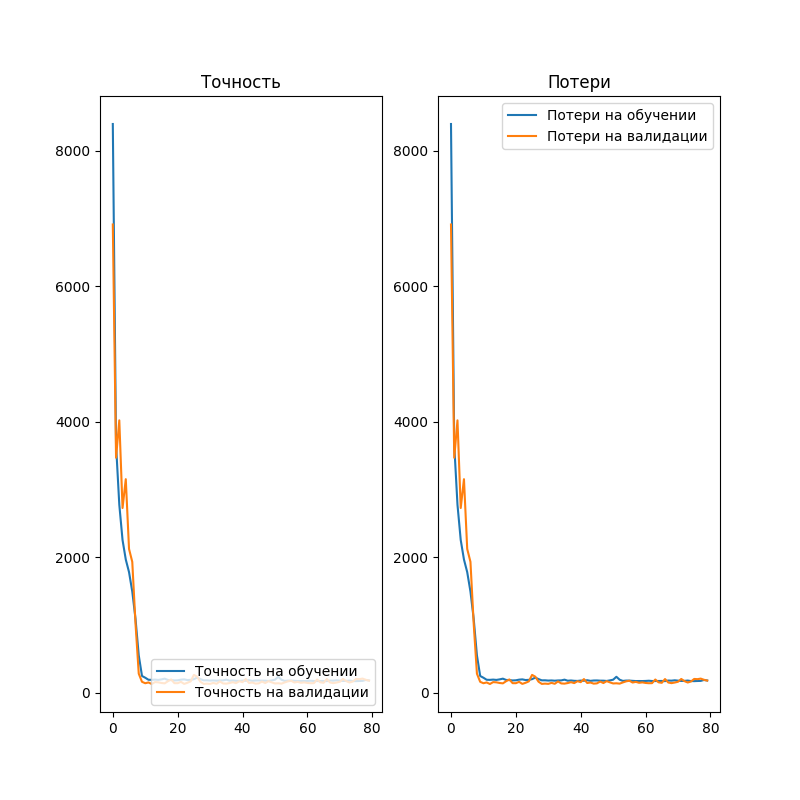
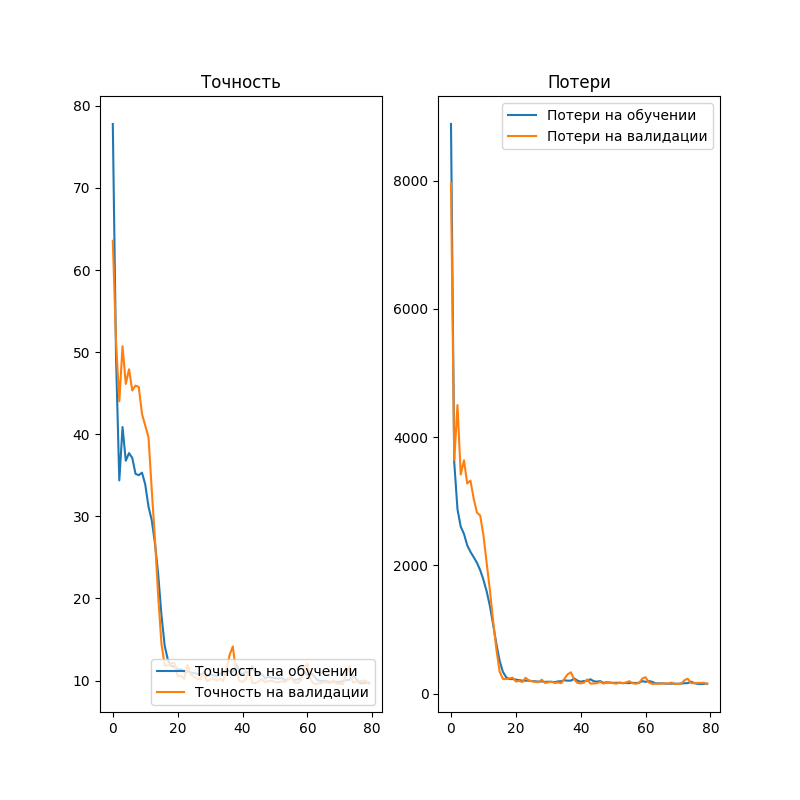
update_task_2_part_4

diff --git a/cnn.py b/cnn.py
@@ -126,11 +126,11 @@ def build_model():
     classification_model.add(Dense(128, activation='relu'))
     classification_model.add(Dense(64, activation='relu'))
 
-    classification_model.add(Dense(1, activation='relu'))
+    classification_model.add(Dense(1, activation='linear'))
 
     classification_model.compile(optimizer='adam',
                                  loss='mean_squared_error',
-                                 metrics=['mean_squared_error'])
+                                 metrics=['mae'])
     classification_model.summary()
 
     return classification_model
@@ -169,8 +169,8 @@ def plot_confusion(confusion_mat):
 
 
 def plot_accuracy(history, fold):
-    acc = history.history['mean_squared_error']
-    val_acc = history.history['val_mean_squared_error']
+    acc = history.history['mae']
+    val_acc = history.history['val_mae']
 
     loss = history.history['loss']
     val_loss = history.history['val_loss']
@@ -204,7 +204,7 @@ def train():
     # test_images, test_labels = data_images[1125:], data_labels[1125:]
 
     data_images, date_flowering_times = load_images_from_folder(
-        'C:/Users/anyac/PycharmProjects/AIO_vigna-master_updated/AIO_summer_square')
+        'C:/Users/1/Desktop/AIO_vigna-master_updated/AIO_summer_square')
     train_images, train_flowering_times = data_images[:750], date_flowering_times[:750]
     test_images, test_flowering_times = data_images[750:], date_flowering_times[750:]
 
@@ -236,7 +236,7 @@ def train():
                                  epochs=80,
                                  verbose=verbosity,
                                  validation_split=0.2)
-        # plot_accuracy(history, fold_no)
+        plot_accuracy(history, fold_no)
 
         # Generate generalization metrics
         scores = best_model.evaluate(data_images[valid], data_vector[valid], verbose=0)

diff --git a/vigna_parser.py b/vigna_parser.py
@@ -69,11 +69,14 @@ def get_vigna_information(filename):
         for vigna in vigna_info:
             summer_plants.append(vigna) if vigna[0] < 240 else winter_plants.append(vigna)
         return summer_plants, winter_plants
+
+
 '''
 функция считывания png через (numpy, opencv) того размера который есть
 брать массив фалйы и заполнять квадрат теми данные которыми она ссчитала ищ предыдщуего изображения и записывает в новое изображени
 создать новую сетку
 '''
+
 
 def aio_transform_to_square(folder):
     for filename in os.listdir(folder):
@@ -99,7 +102,8 @@ def aio_transform_to_square(folder):
 
                 pixels[j, i] = old_pixels[ni, nj]
                 ni += 1
-        img.save(os.path.join('C:/Users/ashab/PycharmProjects/AIO_vigna-master_updated/AIO_summer_square', filename))
+        img.save(os.path.join('C:/Users/1/Desktop/AIO_vigna-master_updated/AIO_summer_square', filename))
+
 
 def aio_transform(filename_vigna, filename_weather):
     weather = get_weather_information(filename_weather)
@@ -107,7 +111,7 @@ def aio_transform(filename_vigna, filename_weather):
 
     all_vigna = summer_planted_vigna + winter_planted_vigna
     for plant in summer_planted_vigna:
-    #for plant in all_vigna:
+        # for plant in all_vigna:
         pixels = []
         snp_pixels = []
         for snp in plant[2]:

diff --git a/main.py b/main.py
@@ -4,7 +4,7 @@ if __name__ == '__main__':
     #f_vigna = "/Users/1/Desktop/AIO_vigna-master/vigna-2021-v4-vqtl-all-utf-v2.h5"
     #f_vigna = "/Users/mariia/Desktop/data/vigna-2021-v4-vqtl-tr-val-utf.h5"
     #f_weather = "/Users/1/Desktop/AIO_vigna-master/vigna-weather.h5"
-    aio_transform_to_square('AIO_summer')
-    #train()
+    #aio_transform_to_square('AIO_summer')
+    train()
 
 
